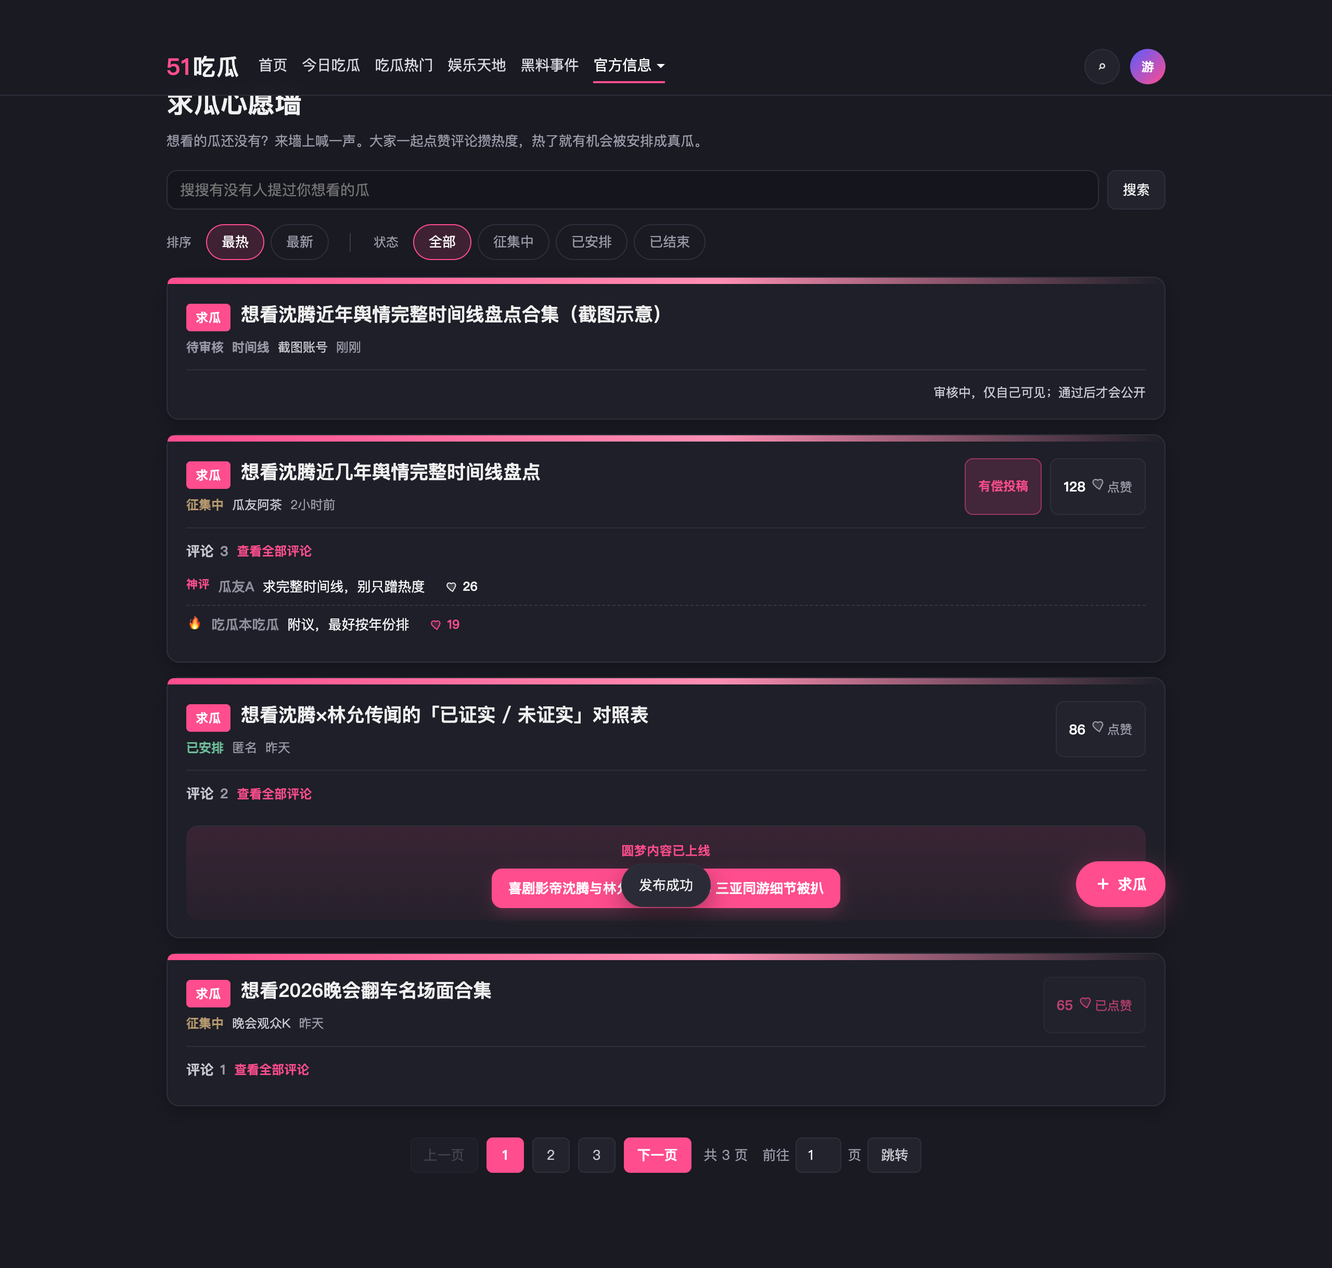
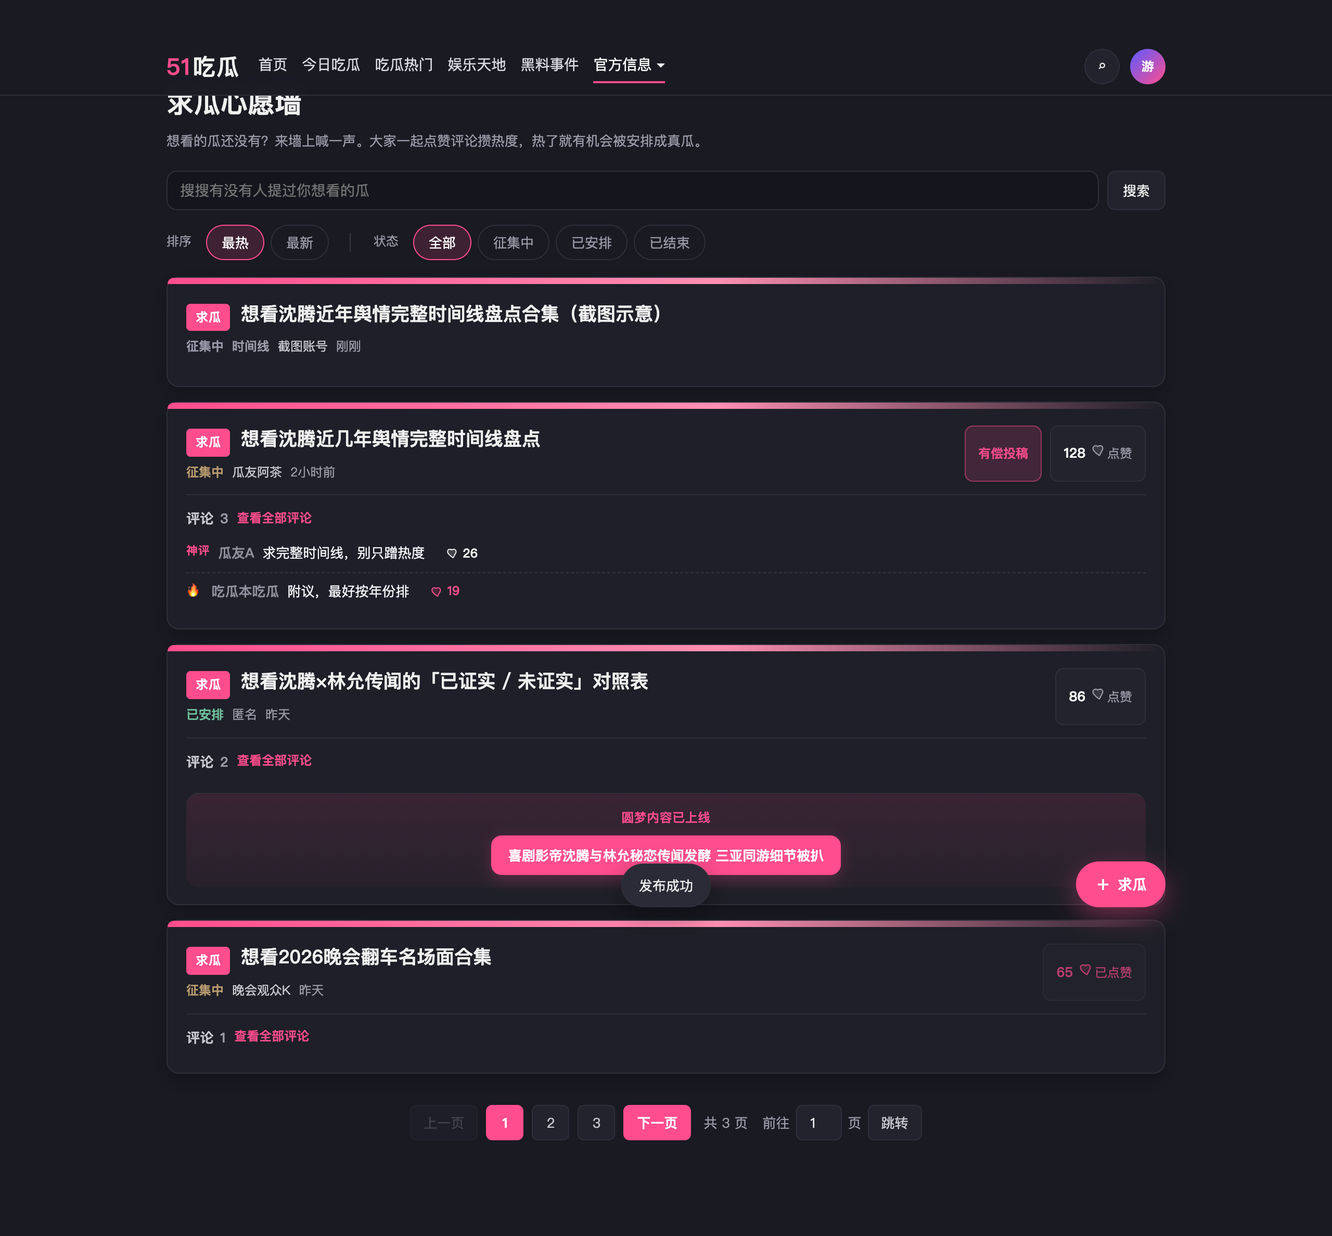
Hide pending labels in wish wall previews
Update the demo and PRD so authors see newly submitted posts and comments without a pending-review label or review-related footnote. Clarify that pending items disappear from the frontend after refresh.

diff --git a/51chigua/wish-wall-lite-prd-demo.html b/51chigua/wish-wall-lite-prd-demo.html
@@ -162,7 +162,7 @@
     <h2 id="sec-purpose">版本目的 / 需求背景</h2>
     <p>站内没有用户想看的瓜时，缺少一个轻量、可攒热度的征集入口。本期上线「求瓜心愿墙」lite：用户不登录即可发心愿、点赞、评论；运营在后台审帖<span class="prd-add">与审评</span>、关联圆梦文章、配置求瓜类型与有偿投稿规则。</p>
     <p>要解决的问题：搜不到内容时能被引导进墙；墙上能发、能筛、能搜已有心愿；热度起来后运营可安排成文并回挂；需要时露出有偿投稿说明。</p>
-    <p>本期做：心愿墙主列表（分页、排序、状态筛选、墙内搜索）、发布求瓜、评论与全部评论页、文章详情跳转、读文后引导继续求瓜、全局搜无结果导流、运营后台（帖子 / 评论 / 配置）、有偿投稿开关。<span class="prd-add">评论在机器审核之外须运营人工上线后才对他人开放；发评后本人即时可见待审态（同帖子 WW-04）。</span></p>
+    <p>本期做：心愿墙主列表（分页、排序、状态筛选、墙内搜索）、发布求瓜、评论与全部评论页、文章详情跳转、读文后引导继续求瓜、全局搜无结果导流、运营后台（帖子 / 评论 / 配置）、有偿投稿开关。<span class="prd-add">评论在机器审核之外须运营人工上线后才对他人开放；发评后本人即时可见（同帖子 WW-04），前台不向本人展示「待审核」标。</span></p>
     <p>本期不做：图片上传与展示、井号标签页、站队 / 投票、Agent、登录账号体系、「我的」页、完整版能力。图片若以后要做，另开需求。</p>
     <p>业务对象：吃瓜用户与内容运营。预期：用户能发出心愿并被看见；运营能完成审核到圆梦闭环。</p>
 
@@ -178,7 +178,7 @@
         <tr><td>WW-04</td><td>发布</td><td>待审本机可见</td><td>发布成功后仅本人在「全部」置顶看见；进状态筛选不出现；刷新列表或页面后不再展示。</td></tr>
         <tr><td>WW-05</td><td>互动</td><td>点赞</td><td>征集中 / 已安排 / 已结束均可点赞（卡片与全部评论页）。</td></tr>
         <tr><td>WW-06</td><td>互动</td><td>评论（卡片区）</td><td>卡片不出发表框。征集中展示预览（最多 2 条）+「查看全部评论」；已安排仅入口条且在圆梦上方；<del>已结束脚注不展开列表</del><span class="prd-add">已结束同样展示评论预览 +「查看全部评论」，可进全部评论页看全量，只是不能再发评</span>；待审无评论区。<span class="prd-add">卡片预览与「评论 N」仅统计已上线评论；待审评论不对他人展示。</span></td></tr>
-        <tr><td>WW-07</td><td>帖子详情</td><td>全部评论页</td><td>发评唯一入口。从「查看全部评论」/「去抢首评」进入；仅征集中底部出发表框；页标题为帖正文；可返回心愿墙。<span class="prd-add">发评后先进待审：本人立刻在列表看到（标「待审核」），他人不可见；运营上线后才公开。</span></td></tr>
+        <tr><td>WW-07</td><td>帖子详情</td><td>全部评论页</td><td>发评唯一入口。从「查看全部评论」/「去抢首评」进入；仅征集中底部出发表框；页标题为帖正文；可返回心愿墙。<span class="prd-add">发评后先进待审：本人立刻在列表看到（不标「待审核」），他人不可见；运营上线后才公开。</span></td></tr>
         <tr><td>WW-08</td><td>圆梦</td><td>已安排与文章</td><td>关联文章后状态为已安排；卡片展示圆梦入口；用户可跳转文章详情阅读标题与正文并可返回。</td></tr>
         <tr><td>WW-09</td><td>导流</td><td>全局搜无结果</td><td>无文章结果时展示现样式模块；主按钮「去心愿墙」；无次按钮。</td></tr>
         <tr><td>WW-10</td><td>导流</td><td>文章详情引导继续求瓜</td><td>正文下「下载 / 分享」操作条右侧增加黑底单按钮「去求瓜」，点进心愿墙；不做彩底导流卡。</td></tr>
@@ -356,20 +356,20 @@
       <div class="shots">
         <figure>
           <img src="prd-screens/ww-04-pending-session.png" alt="本机待审置顶" />
-          <figcaption>发布成功 Toast 后：「全部」第 1 页顶端出现本机待审帖（态「待审核」、无赞无评），他人不可见。</figcaption>
+          <figcaption>发布成功 Toast 后：「全部」第 1 页顶端出现本机刚发的帖（无赞无评），<del>态「待审核」</del><span class="prd-add">前台不展示「待审核」标</span>，他人不可见。</figcaption>
         </figure>
       </div>
       <div>
         <div class="id">WW-04</div>
         <h3>待审本机可见</h3>
         <h4>功能逻辑</h4>
-        <p>发布成功后，本会话在前台「全部」列表最上方插入该待审帖，仅用于本人确认「已提交」。状态展示为「待审核」，不可点赞、不可评论、不展开评论区。切到「征集中 / 已安排 / 已结束」看不到。刷新列表或刷新页面后，前台不再展示该待审帖，但仍在后台待审队列。</p>
+        <p>发布成功后，本会话在前台「全部」列表最上方插入该待审帖，仅用于本人确认「已提交」。<del>状态展示为「待审核」，</del><span class="prd-add">前台不告诉本人这是待审：不展示「待审核」状态标，也不出审核相关脚注；卡片外观按征集中展示，</span>不可点赞、不可评论、不展开评论区。切到「征集中 / 已安排 / 已结束」看不到。刷新列表或刷新页面后，前台不再展示该待审帖，但仍在后台待审队列。</p>
         <h4>业务规则</h4>
         <ul>
           <li>仅「全部」+ 本机会话发布标记同时满足时可见；他人不可见、不可搜到。</li>
           <li>不做「我的」、不做登录认人；会话标记丢失即前台消失。</li>
           <li>多条本机会话待审时，都排在公开帖之前（相对顺序按发布时间，新的可在最前）。</li>
-          <li>待审预览不是公开征集：没有评论、没有点赞；脚注说明「审核中，仅自己可见；通过后才会公开」。</li>
+          <li>待审预览不是公开征集：没有评论、没有点赞；<del>脚注说明「审核中，仅自己可见；通过后才会公开」。</del><span class="prd-add">前台本人可见时不展示「待审核」标，也不展示任何审核中 / 仅自己可见类脚注或 Toast。</span></li>
         </ul>
         <h4>页面交互</h4>
         <ul>
@@ -440,7 +440,7 @@
         <ul>
           <li>卡片禁止发表：任意状态下卡片均不出昵称框 / 正文框 /「发送」。</li>
           <li>卡片「评论 N」：<del>N = 该帖评论总条数。</del> <span class="prd-add">N = 该帖已上线（对他人可见）的评论条数；待审、已下架不计入。本人本机待审评论不抬高他人看到的 N。</span></li>
-          <li><span class="prd-add">可见性：仅「已上线」评论可对他人展示。待审评论仅发表者本人在 WW-07 可见；已下架对前台用户均不可见（含本人，除非产品另定回显——本期本人亦不可见已下架）。</span></li>
+          <li><span class="prd-add">可见性：仅「已上线」评论可对他人展示。待审评论仅发表者本人在本机会话内于 WW-07 可见（刷新后前台消失，同 WW-04）；已下架对前台用户均不可见（含本人）。</span></li>
           <li>卡片预览入池（仅卡片区按热，二选一即可）：① 运营神评（WW-13「设为神评」）；② 评论点赞数 ≥ 10（含当前用户已赞）。不入池的不出现在卡片预览。<span class="prd-add">入池候选仅限已上线评论；待审不可入池、不可因点赞≥10 上墙。</span></li>
           <li>卡片预览入池后排序：神评优先于点赞热门；同档按点赞数降序。取前 2 条；不足 2 条有几条展示几条。</li>
           <li>预览左侧标记：神评文案标；点赞过阈显示 🔥。</li>
@@ -469,7 +469,7 @@
       <div class="shots">
         <figure>
           <img src="prd-screens/ww-07-comments.png" alt="全部评论页·征集中" />
-          <figcaption>征集中：页标题=帖正文；底部有发评框。<span class="prd-add">发评成功 Toast「评论提交成功」；本人列表可见「待审核」条。</span></figcaption>
+          <figcaption>征集中：页标题=帖正文；底部有发评框。<span class="prd-add">发评成功 Toast「评论提交成功」；本人列表立刻看到该条，不标「待审核」。</span></figcaption>
         </figure>
         <figure>
           <img src="prd-screens/ww-07-comments-arranged.png" alt="全部评论页·已安排" />
@@ -480,23 +480,23 @@
         <div class="id">WW-07</div>
         <h3>全部评论页（帖子详情）</h3>
         <h4>功能逻辑</h4>
-        <p>二级页展示该帖<span class="prd-add">对当前访客可见的</span>评论与帖级操作，是发评的唯一入口。页眉主标题 = 帖正文。列表排序与卡片预览不同：神评优先，其余按创建时间倒序（不按点赞重排）。仅征集中在底部出发表框；已安排 / 已结束不出发表框（仍可浏览评论、点赞、圆梦入口）。<span class="prd-add">评论须经机器审核后仍进入「待审核」，再由运营人工上线才对他人开放；不审核不开放。发评成功后本人立刻在本页看到该条（待审态），逻辑对齐帖子 WW-04。</span></p>
+        <p>二级页展示该帖<span class="prd-add">对当前访客可见的</span>评论与帖级操作，是发评的唯一入口。页眉主标题 = 帖正文。列表排序与卡片预览不同：神评优先，其余按创建时间倒序（不按点赞重排）。仅征集中在底部出发表框；已安排 / 已结束不出发表框（仍可浏览评论、点赞、圆梦入口）。<span class="prd-add">评论须经机器审核后仍进入「待审核」，再由运营人工上线才对他人开放；不审核不开放。发评成功后本人立刻在本页看到该条，逻辑对齐帖子 WW-04；前台不向本人展示「待审核」标。</span></p>
         <h4>业务规则</h4>
         <ul>
           <li>可发评状态：仅征集中。已安排、已结束：全部评论页不出发表框。</li>
           <li><span class="prd-add">评论状态：待审核 → 已上线 →（可）已下架。机器审核通过后默认为待审核，不对他人开放；运营在 WW-13「上线」后变为已上线；「下架」后前台不可见。</span></li>
-          <li><span class="prd-add">本机待审可见（对齐 WW-04）：发送成功后，该条以「待审核」出现在发表者本人的全部评论列表中（建议插在列表顶部或按创建时间就位并带「待审核」标）；其他用户的列表不包含该条。刷新页面后：正式实现仍保留「本人可见自己的待审评论」；Demo 可按会话模拟。</span></li>
+          <li><del><span class="prd-add">本机待审可见（对齐 WW-04）：发送成功后，该条以「待审核」出现在发表者本人的全部评论列表中（建议插在列表顶部或按创建时间就位并带「待审核」标）；其他用户的列表不包含该条。刷新页面后：正式实现仍保留「本人可见自己的待审评论」；Demo 可按会话模拟。</span></del><span class="prd-add">本机待审可见（对齐 WW-04）：发送成功后，该条出现在发表者本人的全部评论列表中（建议插在列表顶部或按创建时间就位）；前台不展示「待审核」标。其他用户看不到。刷新列表或刷新页面后，前台不再展示该待审评论，但仍在后台待审队列。发帖、发评同一口径。</span></li>
           <li>列表排序：神评优先；非神评按创建时间倒序。不做评论置顶；不按点赞排序（按赞只用于 WW-06 卡片预览）。<span class="prd-add">排序对象 = 已上线评论 ∪ 当前用户本人的待审评论。</span></li>
           <li>发评：须昵称 + 非空正文；<del>成功后评论数 +1，可影响帖热度分（评论条数 ×2）。</del> <span class="prd-add">成功后写入待审评论；公开「评论 N」与帖热度分中的评论项不因此 +1，待运营上线后再计入。</span></li>
           <li>标题区可含有偿入口、帖点赞（规则同 WW-05 / WW-11）。</li>
           <li>已安排且有关联文章时，保留圆梦跳转入口。</li>
-          <li>单条评论可展示神评标；可评论点赞。<span class="prd-add">待审条展示「待审核」标，不可点赞、不可被设为神评展示给他人。</span></li>
+          <li>单条评论可展示神评标；可评论点赞。<del><span class="prd-add">待审条展示「待审核」标，不可点赞、不可被设为神评展示给他人。</span></del><span class="prd-add">本人待审条前台不展示「待审核」标；仍不可点赞、不可被设为神评展示给他人。后台 WW-13 继续用「待审核」状态列。</span></li>
           <li>空评论：可评时「还没人评，来说两句」；不可评时「暂无评论」。<span class="prd-add">空态以对当前访客可见集合为准（他人看不到你的待审时，对其仍可能是空态）。</span></li>
         </ul>
         <h4>页面交互</h4>
         <ul>
           <li>「← 求瓜心愿墙」返回墙列表（保持进入前的筛选 / 页码由实现决定，Demo 回墙默认列表）。</li>
-          <li>征集中：底部昵称 + 正文 +「发送」；<del>发送成功后列表即时追加新评、清空正文框。</del> <span class="prd-add">发送成功后：Toast「评论提交成功」；本人列表即时追加带「待审核」的新评；清空正文框；他人刷新后仍看不到该条。Toast 与成功态文案不提及审核、待审或「通过后可见」。</span></li>
+          <li>征集中：底部昵称 + 正文 +「发送」；<del>发送成功后列表即时追加新评、清空正文框。</del> <span class="prd-add">发送成功后：Toast「评论提交成功」；本人列表即时追加该新评（不带「待审核」标）；清空正文框；他人刷新后仍看不到该条。Toast 与成功态文案不提及审核、待审或「通过后可见」。</span></li>
         </ul>
         <h4>异常</h4>
         <ul>
@@ -507,7 +507,7 @@
           <li><span class="prd-add">评论被下架后本人再进本页：列表中不再出现该条；若正在看的会话里仍有缓存条，刷新后消失。</span></li>
         </ul>
         <h4>数据流转</h4>
-        <p><del>按帖 ID 拉帖与全量评论；发评写评论表并回写帖评论数。</del> <span class="prd-add">按帖 ID 拉帖与「已上线评论 + 本人待审评论」；发评经机器审核后写评论表（状态=待审核），不回写公开评论数；WW-13 上线后再回写公开评论数并参与热度。</span></p>
+        <p><del>按帖 ID 拉帖与全量评论；发评写评论表并回写帖评论数。</del> <span class="prd-add">按帖 ID 拉帖与「已上线评论 + 本机会话内本人刚发的待审评论」；刷新后只拉已上线。发评经机器审核后写评论表（状态=待审核），不回写公开评论数；WW-13 上线后再回写公开评论数并参与热度。</span></p>
       </div>
     </div>
 
@@ -711,7 +711,7 @@
         <p>汇总各帖评论，按帖筛选 / 关键词搜索后列表操作。运营维护「神评」标记。<span class="prd-add">在现有机器审核之外，运营对评论做人工「上线」与「下架」：未上线不对前台他人开放。</span>点赞过阈是否上卡片预览由前台按 WW-06 实时计算。</p>
         <h4>业务规则</h4>
         <ul>
-          <li><span class="prd-add">状态机：机器审核通过 → 待审核（默认，前台仅发表者本人可见）→ 运营「上线」→ 已上线（对所有人可见，计入公开评论数与热度）→ 运营「下架」→ 已下架（前台均不可见，公开评论数 −1 并重算热度；可再次「上线」恢复）。机器审核未通过的不进本表待审队列（或单独垃圾箱，本期以前者不进表为准）。</span></li>
+          <li><span class="prd-add">状态机：机器审核通过 → 待审核（默认；前台仅发表者本机会话可见，刷新后前台消失）→ 运营「上线」→ 已上线（对所有人可见，计入公开评论数与热度）→ 运营「下架」→ 已下架（前台均不可见，公开评论数 −1 并重算热度；可再次「上线」恢复）。机器审核未通过的不进本表待审队列（或单独垃圾箱，本期以前者不进表为准）。</span></li>
           <li><span class="prd-add">不审核不开放：待审核评论不得出现在他人前台列表 / 卡片预览 / 墙内搜索命中评论字段。</span></li>
           <li>列表排序：神评优先，其次按评论创建时间倒序（与 WW-07 全部评论页一致；不按点赞排序）。<span class="prd-add">后台列表含全部状态；可用状态 Tab 或筛选项切换「全部 / 待审核 / 已上线 / 已下架」。</span></li>
           <li>设为神评 / 取消神评：写入神评标记；神评进入卡片预览池并显示「神评」标（见 WW-06）。<span class="prd-add">仅「已上线」评论可设为神评；待审核 / 已下架点「设为神评」→ Toast「请先上线该评论」，零副作用。</span></li>
@@ -784,10 +784,10 @@
         <tr><td>WW-01</td><td>□ 最热=点赞+评论×2 降序；最新=创建时间倒序；每页 4；四态筛选；后台置顶不影响前台序</td></tr>
         <tr><td>WW-02</td><td>□ 命中分正文100/求瓜类型50/评论10；同分按热度；有结果条/无结果可去求瓜</td></tr>
         <tr><td>WW-03</td><td>□ 不登录可发；求瓜类型后台配置且必选；合规确认</td></tr>
-        <tr><td>WW-04</td><td>□ 发后「全部」置顶可见；筛状态不可见；刷新后前台不再见</td></tr>
+        <tr><td>WW-04</td><td>□ 发后「全部」置顶可见；筛状态不可见；刷新后前台不再见<span class="prd-add">；前台不展示「待审核」标与审核脚注</span></td></tr>
         <tr><td>WW-05</td><td>□ 仅征集中/已安排/已结束可赞；待审不可赞；点赞+1 进热度；不可重复赞、不可取消</td></tr>
         <tr><td>WW-06</td><td>□ 卡片无发表框；预览仅神评或点赞≥10，最多 2，神评优先再按赞；无最新/无时间；待审无评论区；已安排仅入口在圆梦上方<span class="prd-add">；已结束同样有预览和「查看全部评论」，只是不能发评</span><span class="prd-add">；「评论 N」与预览仅已上线；待审不对他人展示</span></td></tr>
-        <tr><td>WW-07</td><td>□ 发评仅在全部评论页；列表神评优先再时间倒序（不按赞）；仅征集中有发表框；可返回墙<span class="prd-add">；发评进待审，本人即时可见「待审核」，他人不可见；上线前不计入公开评论数与热度</span></td></tr>
+        <tr><td>WW-07</td><td>□ 发评仅在全部评论页；列表神评优先再时间倒序（不按赞）；仅征集中有发表框；可返回墙<span class="prd-add">；发评进待审，本人即时可见且不标「待审核」，他人不可见；刷新后前台不再见；上线前不计入公开评论数与热度</span></td></tr>
         <tr><td>WW-08</td><td>□ 关联后已安排；圆梦可进文章且正文可读、可返回</td></tr>
         <tr><td>WW-09</td><td>□ 全局无结果仅主按钮去心愿墙</td></tr>
         <tr><td>WW-10</td><td>□ 正文下操作条右侧黑底「去求瓜」；与下载/分享同行；无彩底导流卡；可进墙</td></tr>

diff --git a/51chigua/wish-wall-lite-demo.html b/51chigua/wish-wall-lite-demo.html
@@ -2021,9 +2021,9 @@ textarea.afield,
       })
       .slice(0, 2);
   }
-  /* 左侧标记：待审核 / 神评 / 热门 */
+  /* 左侧标记：神评 / 热门；本人待审前台不标「待审核」 */
   function commentMark(c) {
-    if (isCommentPending(c)) return `<span class="c-mark pending" title="待审核">待审核</span>`;
+    if (isCommentPending(c)) return "";
     if (isGodComment(c)) return `<span class="c-mark god" title="神评">神评</span>`;
     if (isLikeRisen(c)) return `<span class="c-mark" title="热门" aria-label="热门">🔥</span>`;
     return "";
@@ -2211,7 +2211,7 @@ textarea.afield,
     const canLike = p.wishKind !== "feature" && (p.status === "collecting" || p.status === "arranged" || p.status === "ended");
     const statusLabel = p.wishKind === "feature"
       ? "仅后台可见"
-      : (previewSelf ? "待审核" : (p.status === "collecting" ? "征集中" : st.label));
+      : (previewSelf ? "征集中" : (p.status === "collecting" ? "征集中" : st.label));
     const kindMeta = wishKindMeta(p.wishKind);
     const dreamArticle = p.articleId ? ARTICLES.find((a) => a.id === p.articleId) : null;
     const catBadge = p.category ? `<span class="tag">${escapeHtml(p.category)}</span>` : "";
@@ -2226,7 +2226,7 @@ textarea.afield,
       : (p.status === "ended"
         ? `<div class="foot"><span class="meta">征集已结束，不再接收新评论</span></div>`
         : (previewSelf
-          ? `<div class="foot"><span class="meta">审核中，仅自己可见；通过后才会公开</span></div>`
+          ? ""
           : (p.status === "rejected" ? `<div class="foot"><span class="meta">未通过，仅自己可见</span></div>` : "")));
     return `<div class="post-card" data-id="${p.id}">
       <div class="band"></div>
